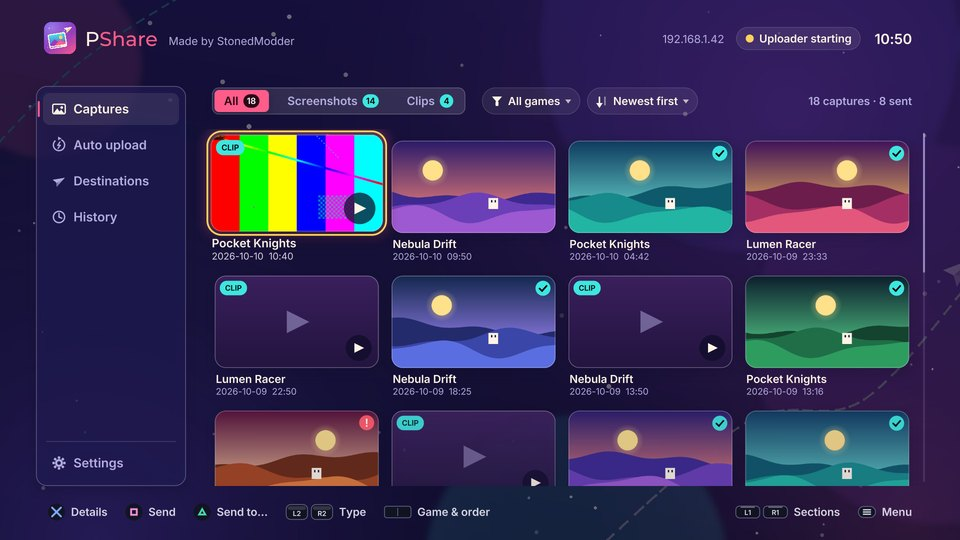
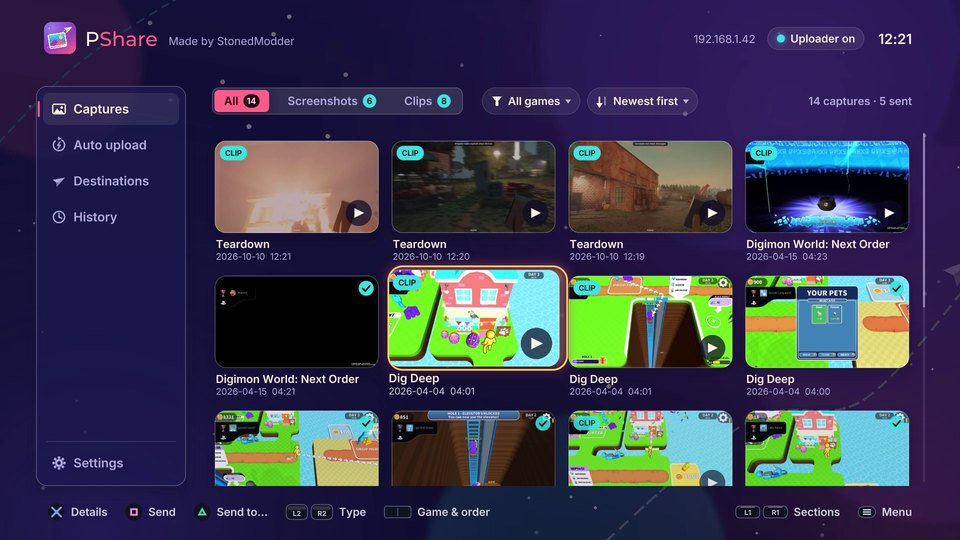
README: real captures from a PS5
The screenshots and the clip-player animation now show real captures
(Teardown, Digimon World: Next Order, Dig Deep) in PShare's interface and
browser page, plus two screenshots taken on the console. The FAQ explains
why clips need PShare open after some console restarts.

Claude-Session: https://claude.ai/code/session_01LmvRwaNnnaPx1fv21u7NKa

diff --git a/README.md b/README.md
@@ -23,15 +23,21 @@ code.
 > 9021 (the usual ps5-payload-dev `elfldr`).
 
 <p align="center">
-  <img src="docs/screens/captures.jpg" width="49%" alt="The captures gallery">
-  <img src="docs/screens/clip-player.jpg" width="49%" alt="A clip playing with its controls">
-  <img src="docs/screens/capture-details.jpg" width="49%" alt="A capture's details sheet">
-  <img src="docs/screens/auto-upload.jpg" width="49%" alt="The background uploader page">
-  <img src="docs/screens/history-qr.jpg" width="49%" alt="An upload's link as a QR code">
-  <img src="docs/screens/destination-form.jpg" width="49%" alt="Editing a destination">
+  <img src="docs/screens/clip-player.gif" width="98%" alt="A Teardown clip playing in PShare's clip player">
 </p>
 
-<sub>Screens rendered by the PC preview (`make preview`) with invented games.</sub>
+<p align="center">
+  <img src="docs/screens/captures.jpg" width="49%" alt="The gallery with real Teardown, Digimon World: Next Order and Dig Deep captures">
+  <img src="docs/screens/capture-details.jpg" width="49%" alt="A clip's details: play, send, open in a browser">
+  <img src="docs/screens/send-to.jpg" width="49%" alt="Send to: every destination, and the upload going out">
+  <img src="docs/screens/auto-upload.jpg" width="49%" alt="The background uploader page">
+  <img src="docs/screens/history-qr.jpg" width="49%" alt="An upload's link as a QR code">
+  <img src="docs/screens/phone-browser.jpg" width="49%" alt="A Dig Deep clip playing in PShare's browser page on a phone">
+  <img src="docs/screens/ps5-home-screen.jpg" width="49%" alt="PShare on a PS5 home screen">
+  <img src="docs/screens/ps5-qr.jpg" width="49%" alt="PShare running on a PS5, showing an upload's QR code">
+</p>
+
+<sub>Real captures from a PS5: Teardown, Digimon World: Next Order and Dig Deep, shown in PShare's own interface (rendered by the PC preview, <code>make preview</code>) and in its browser page. The last two pictures are screenshots taken on the console. The games belong to their publishers.</sub>
 
 ## Features
 
@@ -171,6 +177,13 @@ restart PShare. The log line `[PShare] elevation …` says which step stopped.
 **Uploads stop when I close the app.**
 They should not: check **Auto upload** shows the uploader as running, and
 that **Send uploads through it** is on.
+
+**Clips play in the app but not in the browser while PShare is closed.**
+After some console restarts the console hands jailbreak payloads, the
+background uploader included, nothing but zeros when they read a clip, while
+the app still reads it properly. While PShare is open, the app passes the clip
+to the uploader, so the browser page, downloads and uploads all work. Keep
+PShare open, or reload the jailbreak.
 
 **Discord does not accept my clip.**
 Without server boosts Discord takes files up to 10 MB. Keep `max_mb = 10` and
